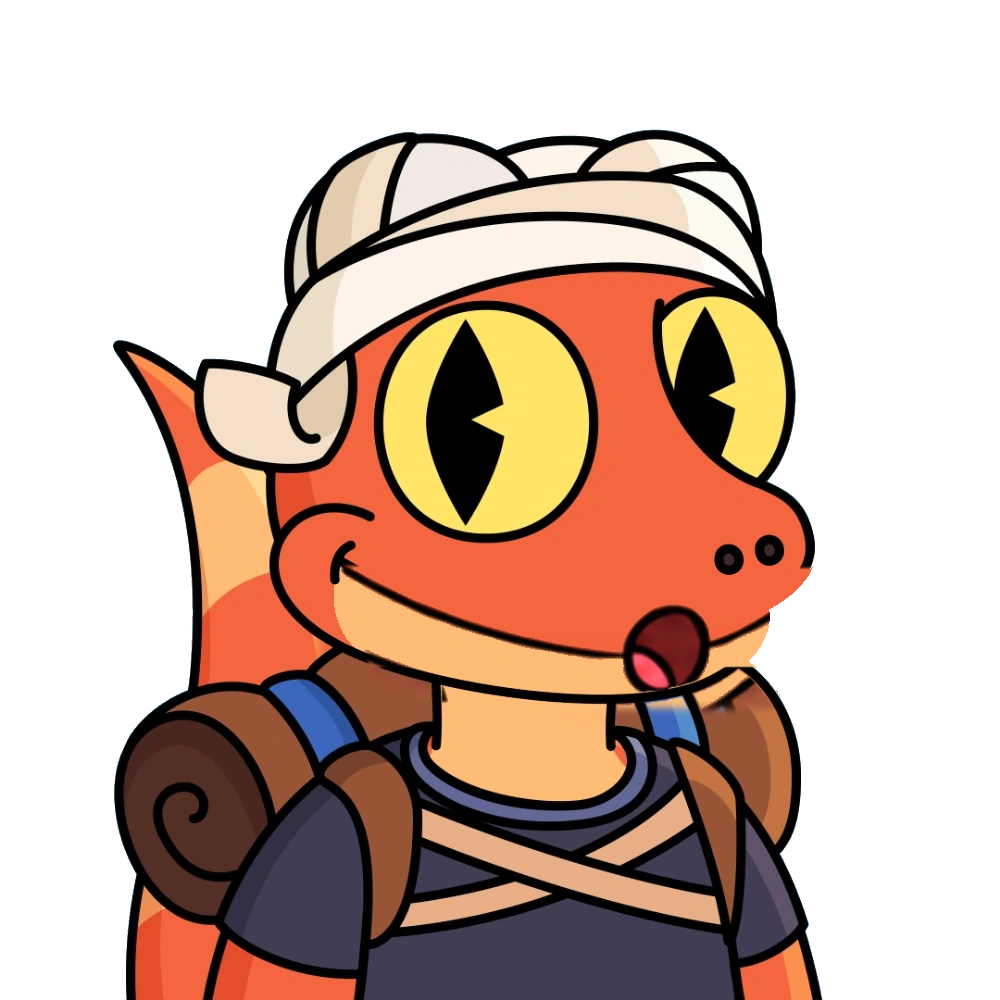
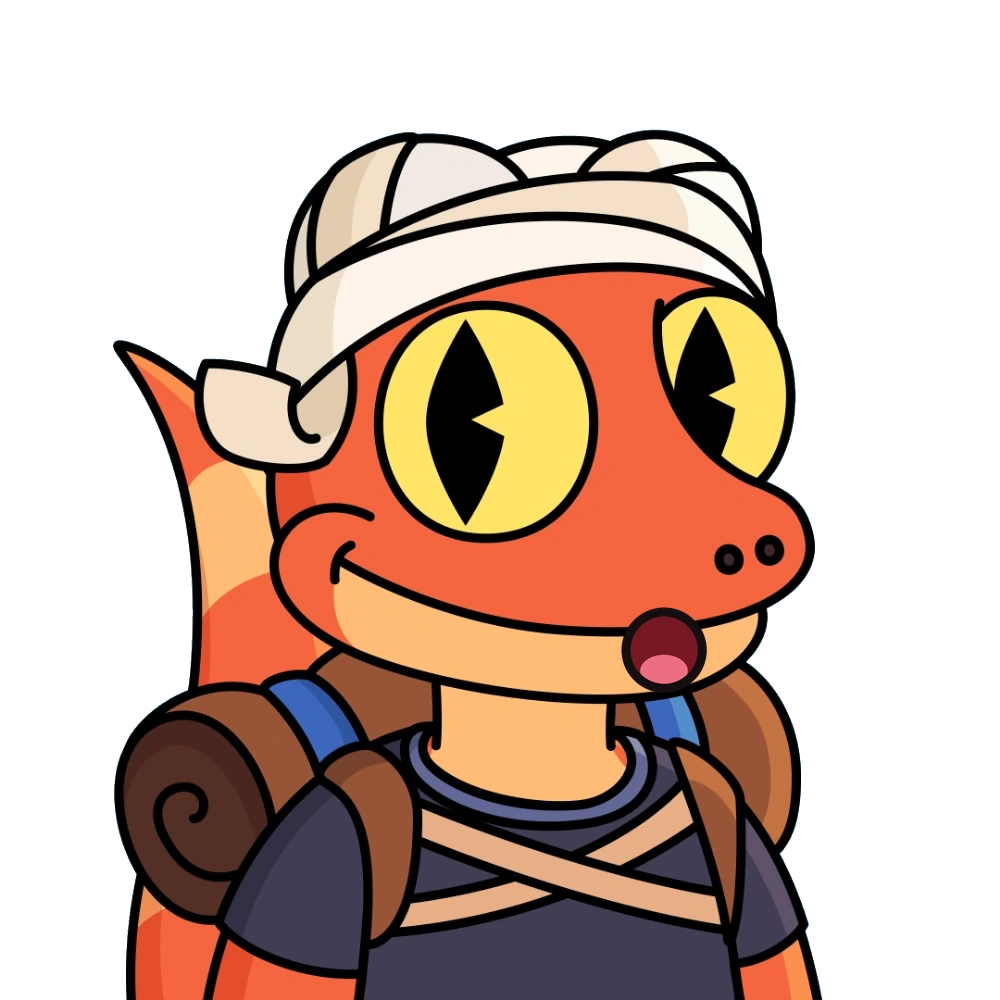
Gecko: redrawn O and OO pucker; no smudges on neck/straps; no reference lines where a Nibble is empty
Claude-Session: https://claude.ai/code/session_01AAjfD4JXrwKrGtAMJHTTVa

Changed region(s): [[0.341, 0.558, 0.806, 0.713], [0.372, 0.651, 0.403, 0.682]]

diff --git a/kit.js b/kit.js
@@ -390,6 +390,7 @@ export function fromKit(Timg, ref, { blink = true, dbg = null, wideFace = false,
     for (let p = 0; p < N * N; p++) { if (!useG[p] || hole[p] || subst.has(p)) continue; const i = p * 4; if (D[i + 3] < 200) continue;
       const mouthy = isMouthC(D[i], D[i + 1], D[i + 2]);
       // unchanged by this mouth: this Nibble's own, except where its own mouth is being replaced
+      if (dist(D, i, R, i) <= 30 && T[i + 3] < 40) { keepT[p] = 1; continue; }   // this Nibble has nothing here (the reference's backpack edge isn't its)
       if (dist(D, i, R, i) <= 30 && (!ownG[p] || (R[i + 3] > 200 && lum(R, i) >= 260 && !isSkin(R, i) && !isMouthC(R[i], R[i + 1], R[i + 2])))) { keepT[p] = 1; continue; }   // (a grey line edge isn't clothes)
       // skin: drawn in this Nibble's matching colour; a skin colour with no match here (a chin its hoodie hides) is filled from its own picture
       if (mouthy || isSkin(D, i)) { if (mouthy) continue; const mm = lum(D, i) >= 75 ? map(D[i], D[i + 1], D[i + 2]) : 1, m = mapped(D, i);

diff --git a/index.html b/index.html
@@ -418,7 +418,7 @@ header .credit b{font-weight:400}
 // Config
 // ---------------------------------------------------------------------------
 const MP_VERSION = '0.10.14';
-const ART_V = '20261116-2200';   // bump when art changes, so phones never show old cached frames
+const ART_V = '20261116-2300';   // bump when art changes, so phones never show old cached frames
 const MP_MODEL = 'https://storage.googleapis.com/mediapipe-models/face_landmarker/face_landmarker/float16/1/face_landmarker.task';
 
 // Each Nibble: eye layers e0–e4 and ten whole-face mouth frames m0–m9, all lined up at 1000×1000.

diff --git a/tools/draw_round_mouth.py b/tools/draw_round_mouth.py
@@ -1,0 +1,23 @@
+# Draws a round "O" / "OO" mouth onto a kit's resting face, on its own mouth line (for kits whose sheet drew these badly).
+# usage: python3 tools/draw_round_mouth.py <id> <out k> <cx,cy> <rx,ry> [tongue 0/1/p (pucker)] [line width]
+import sys
+from PIL import Image, ImageDraw
+tid, k = sys.argv[1], int(sys.argv[2]); cx, cy = [float(v) for v in sys.argv[3].split(',')]; rx, ry = [float(v) for v in sys.argv[4].split(',')]
+tongue = len(sys.argv) > 5 and sys.argv[5] == '1'; pucker = len(sys.argv) > 5 and sys.argv[5] == 'p'; lw = float(sys.argv[6]) if len(sys.argv) > 6 else 9
+base = Image.open(f'faces/{tid}/base.webp').convert('RGBA'); SS = 4
+lay = Image.new('RGBA', (1000 * SS, 1000 * SS), (0, 0, 0, 0)); d = ImageDraw.Draw(lay)
+box = lambda x, y, a, b: [(x - a) * SS, (y - b) * SS, (x + a) * SS, (y + b) * SS]
+if pucker:   # lips pushed out: a ring in the lip colour, outlined, around a small dark hole
+    lip = base.getpixel((int(cx - rx * 1.4), int(cy + ry * 1.2)))[:3]
+    d.ellipse(box(cx, cy, rx * 1.55 + lw / 2, ry * 1.45 + lw / 2), fill=(22, 14, 16, 255)); d.ellipse(box(cx, cy, rx * 1.55 - lw / 2, ry * 1.45 - lw / 2), fill=lip + (255,))
+    rx, ry, lw = rx * 0.55, ry * 0.55, lw * 0.8
+d.ellipse(box(cx, cy, rx + lw / 2, ry + lw / 2), fill=(22, 14, 16, 255))          # ink outline
+d.ellipse(box(cx, cy, rx - lw / 2, ry - lw / 2), fill=(120, 24, 36, 255))         # inside
+if tongue:   # the tongue low in the mouth, clipped to the inside
+    t = Image.new('L', lay.size, 0); ImageDraw.Draw(t).ellipse(box(cx, cy + ry * 0.55, rx * 0.62, ry * 0.42), fill=255)
+    m = Image.new('L', lay.size, 0); ImageDraw.Draw(m).ellipse(box(cx, cy, rx - lw / 2, ry - lw / 2), fill=255)
+    from PIL import ImageChops; t = ImageChops.multiply(t, m)
+    lay.paste((236, 110, 130, 255), (0, 0), t)
+lay = lay.resize((1000, 1000), Image.LANCZOS)
+out = base.copy(); out.alpha_composite(lay)
+out.save(f'faces/{tid}/m{k}.webp', quality=95, method=6); print('drew', k)

diff --git a/tools/keep_inside_face.py b/tools/keep_inside_face.py
@@ -1,0 +1,39 @@
+#!/usr/bin/env python3
+"""Undo kit-frame changes that spill outside the face.
+
+usage: keep_inside_face.py <id> <seed x,y> [<seed x,y> ...] [--grow N] [--frames 2,3,4]
+
+The seeds are points on the face/jaw skin in m0 (the rest frame). Each seed's
+same-colour region in m0 is the face; it is grown by N pixels (default 10) to take
+in its outline. In every other frame, any pixel outside that area is put back to
+m0, so smudges a drawing tool left on the neck, clothes or background go away.
+"""
+import sys
+import numpy as np
+from PIL import Image
+from scipy import ndimage
+
+args = sys.argv[1:]
+grow, frames = 10, None
+if '--grow' in args:
+    i = args.index('--grow'); grow = int(args[i + 1]); del args[i:i + 2]
+if '--frames' in args:
+    i = args.index('--frames'); frames = [int(v) for v in args[i + 1].split(',')]; del args[i:i + 2]
+nid, seeds = args[0], [tuple(int(v) for v in s.split(',')) for s in args[1:]]
+d = f'faces/{nid}'
+a0 = np.array(Image.open(f'{d}/m0.webp').convert('RGBA')).astype(int)
+face = np.zeros(a0.shape[:2], bool)
+for x, y in seeds:
+    c = a0[y, x]
+    near = (np.abs(a0[..., :3] - c[:3]).sum(2) < 60) & (a0[..., 3] > 128)
+    lab, _ = ndimage.label(near)
+    face |= lab == lab[y, x]
+face = ndimage.binary_fill_holes(face)
+keep = ndimage.binary_dilation(face, iterations=grow)
+for k in frames or range(1, 10):
+    p = f'{d}/m{k}.webp'
+    a = np.array(Image.open(p).convert('RGBA')).astype(int)
+    n = int(((np.abs(a - a0).sum(2) > 0) & ~keep).sum())
+    a[~keep] = a0[~keep]
+    Image.fromarray(a.astype(np.uint8)).save(p, quality=95, method=6)
+    print(f'm{k}: put back {n} px')
